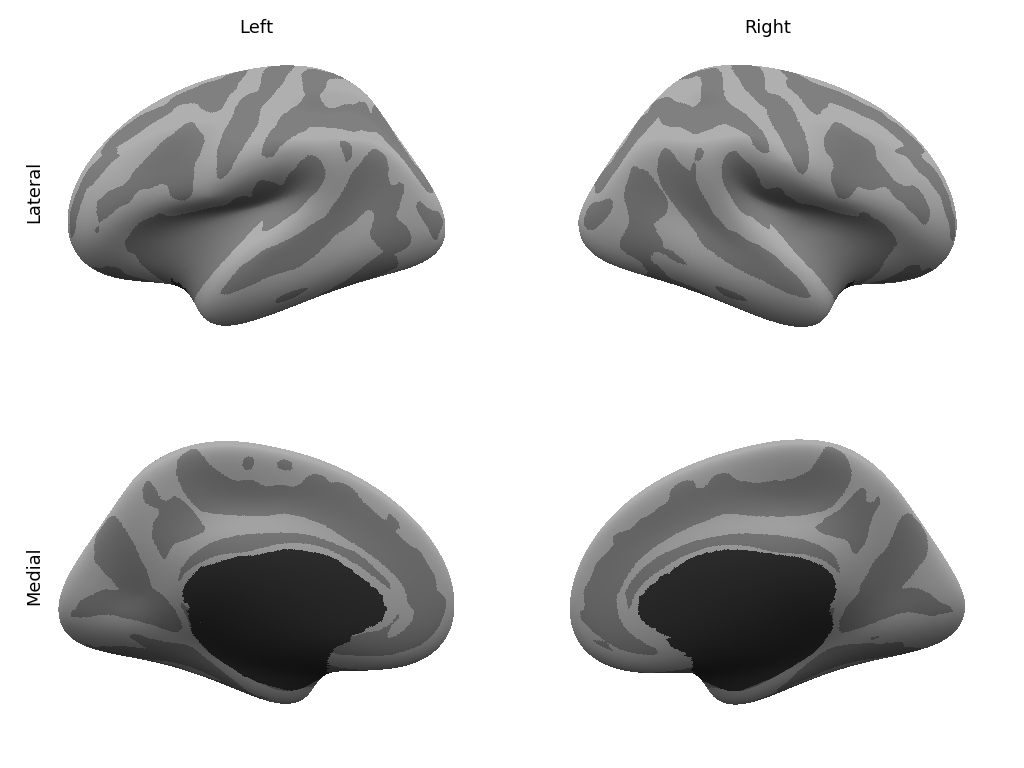
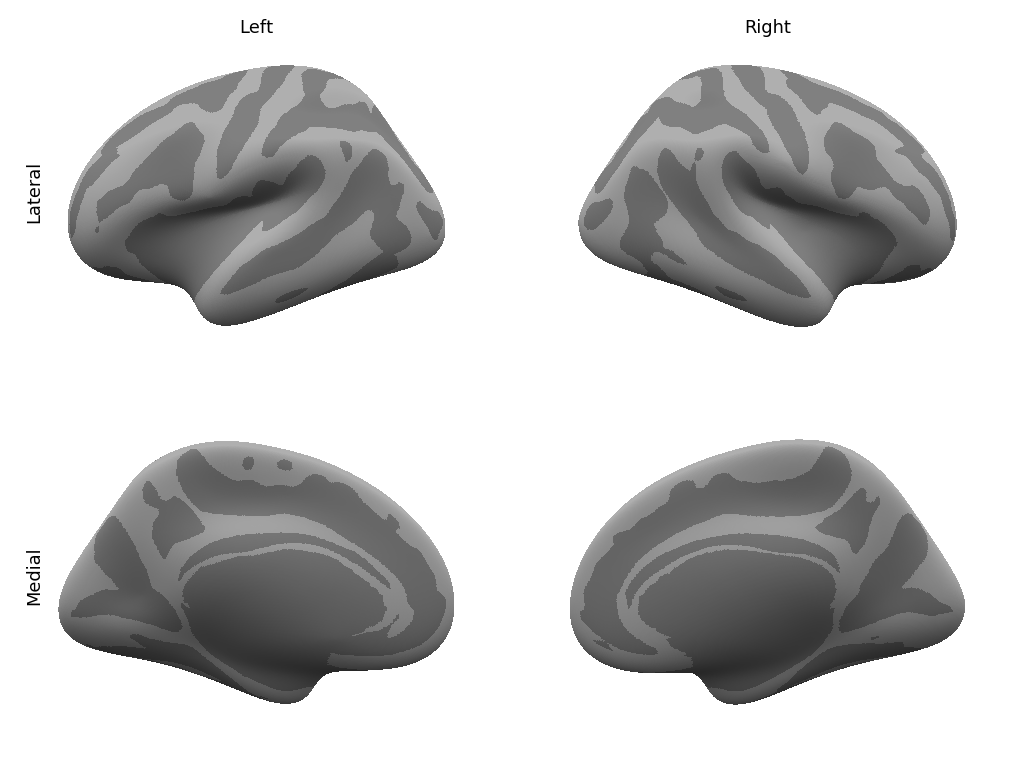
masked medial wall in now middle gray

Changed region(s): [[0.1562, 0.7188, 0.375, 0.9062], [0.625, 0.7188, 0.8125, 0.9062]]

diff --git a/brain4views.py b/brain4views.py
@@ -251,9 +251,9 @@ def plot_surf4(meshes, overlays=None,
             overlay_faces = overlay_faces / (vmax - vmin)
             face_colors[kept_indices] = cmap(overlay_faces[kept_indices])
 
-        # make non-cortical faces dark grey
+        # make non-cortical faces middle grey
         if ctx_masks is not None:
-            face_colors[masked_indices] = [0.2, 0.2, 0.2, 1]
+            face_colors[masked_indices] = [0.5, 0.5, 0.5, 1]
 
         # assign label faces to appropriate color
         for i, L in enumerate(label_mask_faces):
